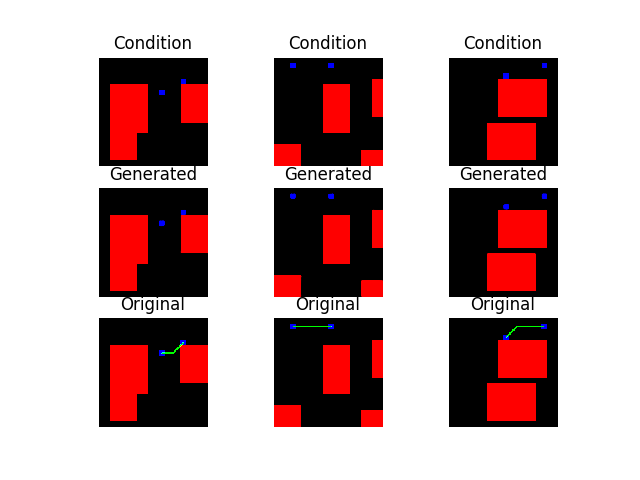
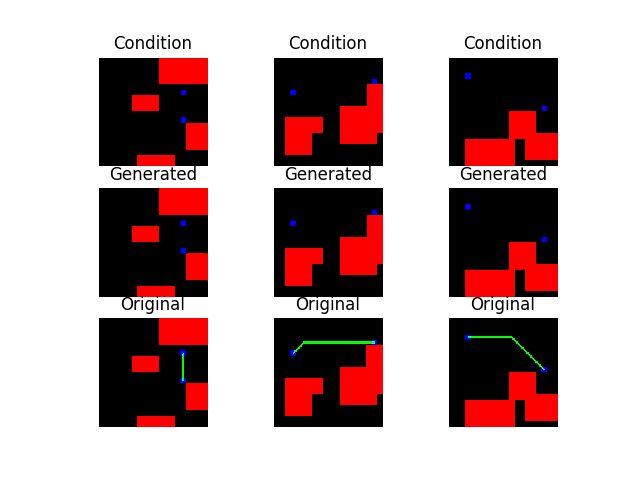
more results from above, more pics per epoch

diff --git a/map2path.py b/map2path.py
@@ -251,8 +251,8 @@ class Pix2Pix():
                  #   accuracy = d_loss[1]
 
                 # If at save interval => save generated image samples
-                if epoch % sample_interval == 0 and batch_i == 1:
-                #if batch_i % sample_interval == 0:
+                #if epoch % sample_interval == 0 and batch_i == 1:
+                if batch_i % sample_interval == 0:
                     self.sample_images(epoch, batch_i)
 
             #if accuracy >= accuracy_prev:
